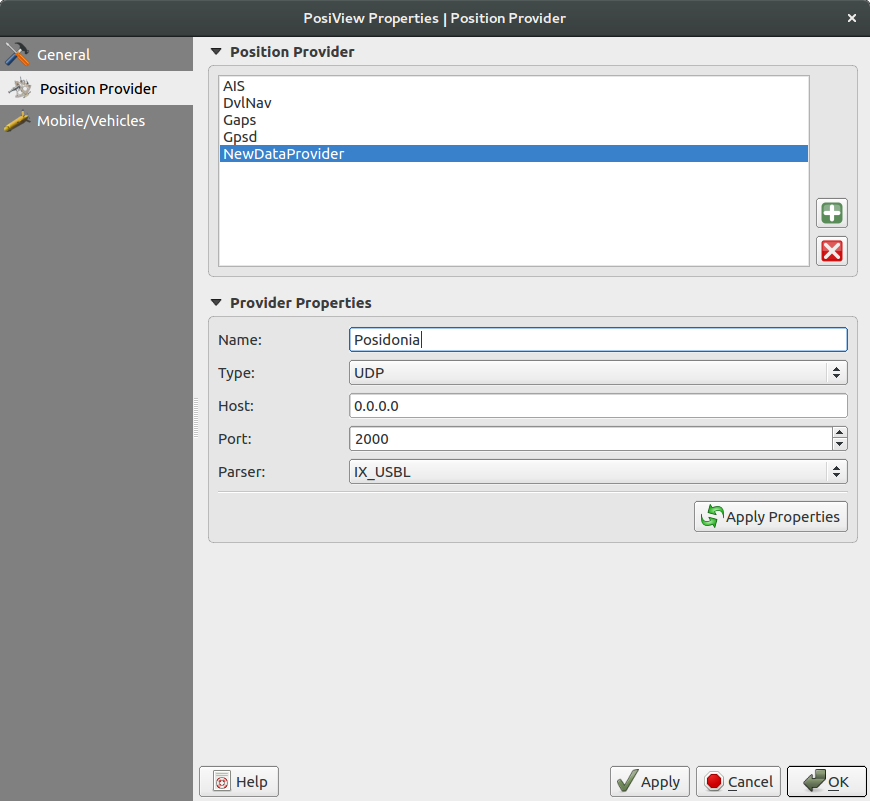
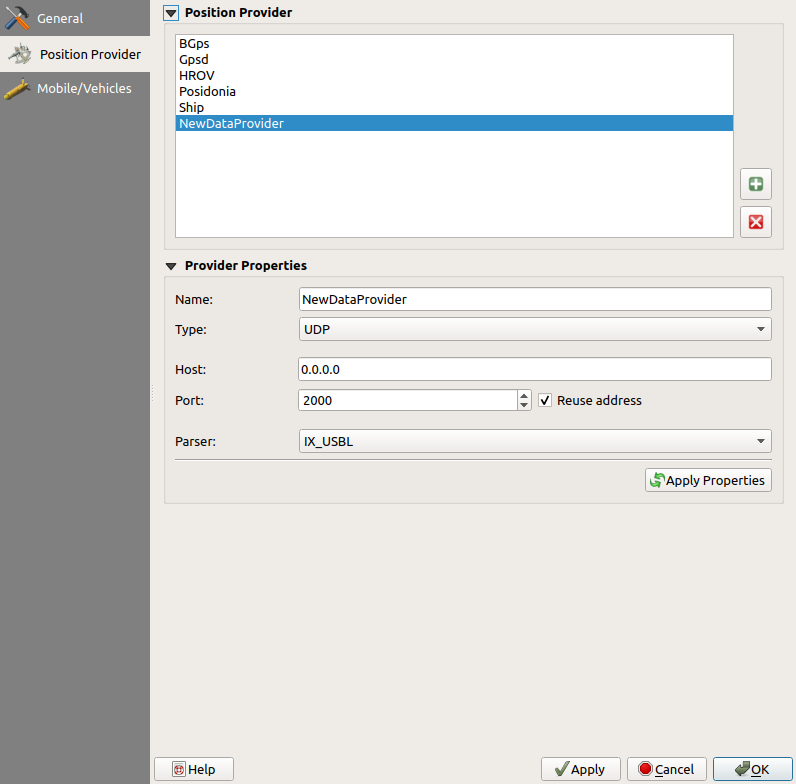
update help/documentation

Changed region(s): [[0.0, 0.0, 1.0, 1.0], [0.6935, 0.949, 1.0, 1.0]]

diff --git a/help/source/conf.py b/help/source/conf.py
@@ -48,9 +48,9 @@ copyright = u'2015-2019, Jens Renken/MARUM/University of Bremen'
 # built documents.
 #
 # The short X.Y version.
-version = '1.1'
+version = '1.2'
 # The full version, including alpha/beta/rc tags.
-release = '1.1.1'
+release = '1.2.0'
 
 # The language for content autogenerated by Sphinx. Refer to documentation
 # for a list of supported languages.

diff --git a/help/source/vehicle.rst b/help/source/vehicle.rst
@@ -30,5 +30,7 @@ Configuring a vehicle/object in depth
   #. Choose color and length of the track.
   #. Select wether the vehicle should be labeled.
   #. Choose a provider from the list. If a provider supplies multiple position messages like USBL systems do, enter a filter.
-     This could be the beacon id (USBL) or the MMSI (AIS) depending on the applied parser. Update the list.
+     This could be the beacon id (USBL) or the MMSI (AIS) depending on the applied parser. 
+     Advanced filters allow more precise control over which data should be processed, e.g. ignoring the heading or displaying the course (COG) as heading.
+     Finally update the list.
   #. Click  ``Apply Properties``

diff --git a/help/source/provider.rst b/help/source/provider.rst
@@ -21,8 +21,8 @@ Configuring a provider in depth
      * TCP client socket
      * GPSD client, a TCP client for GPS daemon
   
-  #. Select the host address. For UDP sockets 0.0.0.0 listens on any available interfaces.
-  #. Select the portnumber.
+  #. Select the host address. For UDP sockets 0.0.0.0 listens on any available interfaces. 
+  #. Select the portnumber. For UDP sockets the socket option SO_REUSEADDR can be set for sharing datagrams across several applications.
   #. Select a parser. Following parsers are available up to now: :doc:`protocol`
 
         ==========  ===============================================================  ============================= 
